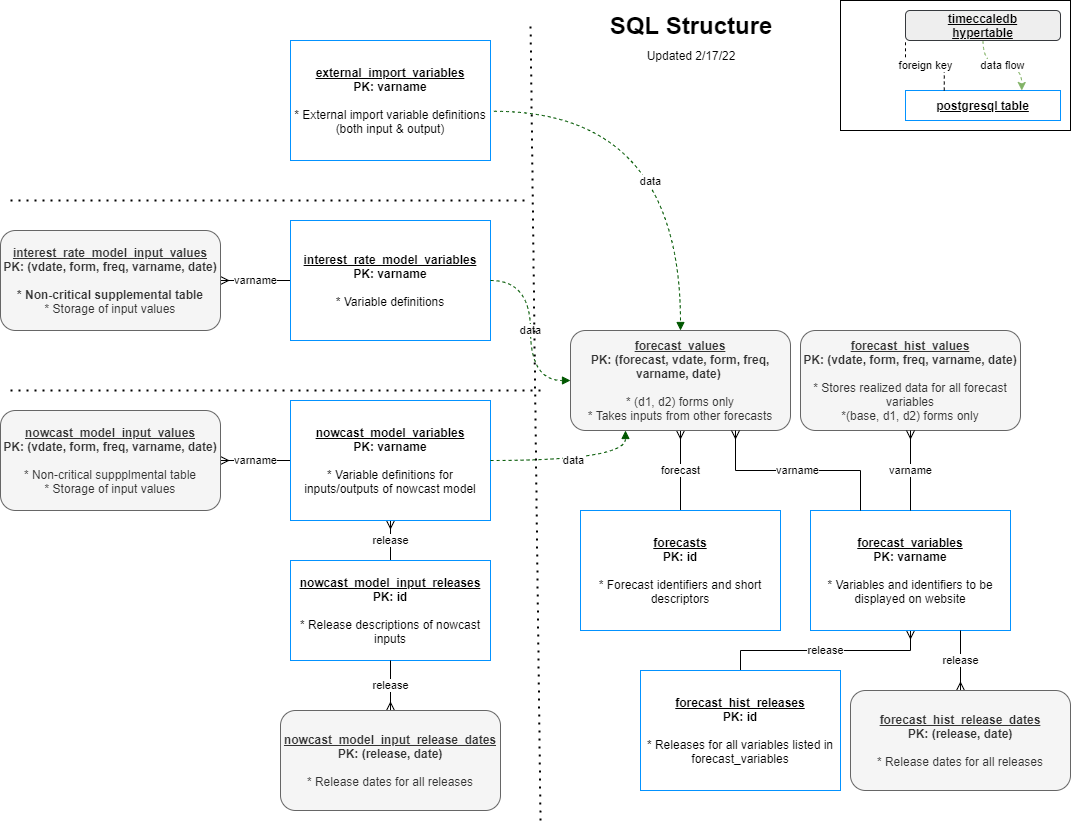
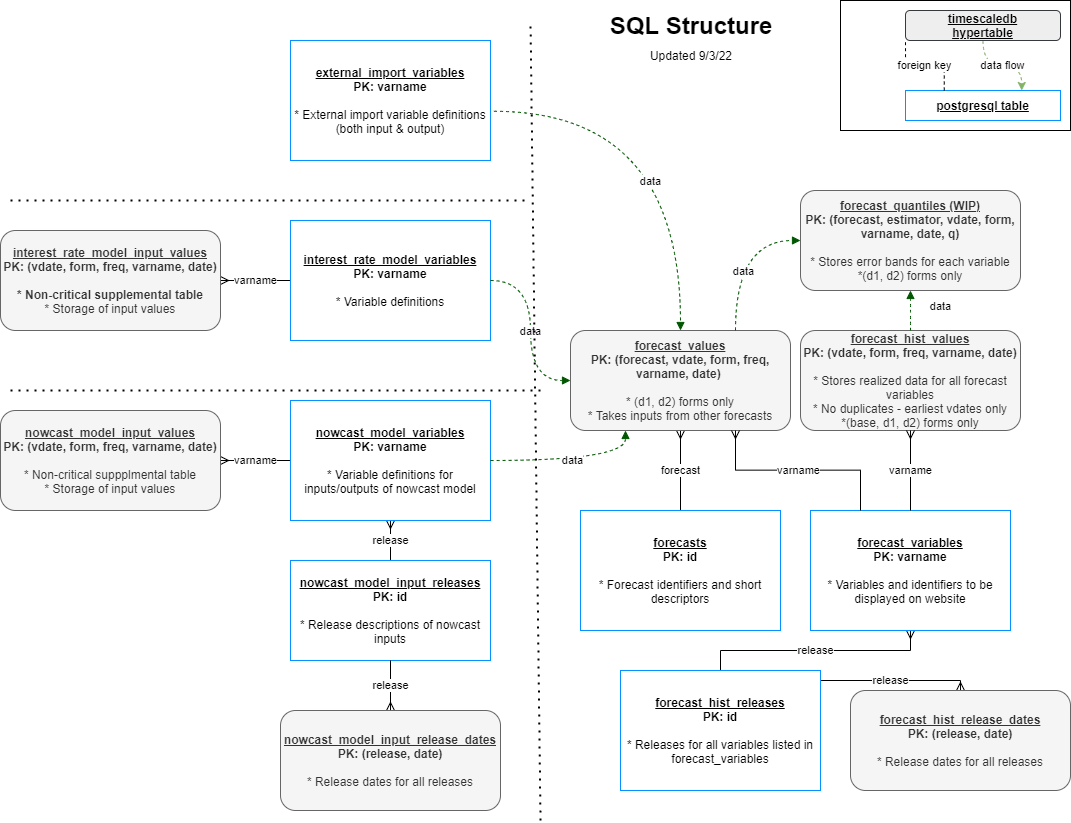
Updated README (v1.04)

diff --git a/README.md b/README.md
@@ -4,21 +4,15 @@ This project contains the code for data scraping, data cleaning, and modeling us
 # RUN
 This code is developed locally on a Windows machine and deployed locally to an Ubuntu VPS. The modeling code is primarily run in R (>=4.1.2) but some scraping scripts make calls to Python (=3.8.7). Modules are imported wholesale using the `reticulate` package. Data and model features are stored in a Postgres/TimescaleDB server hosted on the VPS.
 
----
+# DB Structure 
+![PostgreSQL SQL Structure](https://raw.githubusercontent.com/cmefi/econforecasting-r/master/docs/sql-structure.png?raw=true)
+
+
 # CHANGELOG
 
-```mermaid
-gantt
-    title Recent Changes
-    dateFormat  M/D/Y
-    axisFormat  %m/%d
-    section 16. Sentiment Indices Release (v1.01)
-      Sentiment Model Exploration      :3/3/22, 4/24/22
-      Sentiment Model Scraping - FT, Reuters, Reddit/PushShift      :4/3/22, 5/8/22
-      Sentiment Model DB Setup      :5/1/22, 5/8/22
-      Sentiment Model Web Page Setup      :5/8/22, 5/15/22
-      Sentiment Model Release       :5/15/22, 5/15/22
-```
+
+
+
 ## [v1.04] 
 - Fixed bug related to einf forecasts missing latest vintage
 
@@ -256,4 +250,18 @@ This is a full model rewrite. The rewrite for the full-scale model is delayed, b
 
 ## [v0.00] (2021-01-07)
 - Added initial package setup
-- Added initial web scraping frameworks etup
+- Added initial web scraping framework setup
+
+
+```mermaid
+gantt
+    title Recent Changes
+    dateFormat  M/D/Y
+    axisFormat  %m/%d
+    section 16. Sentiment Indices Release (v1.01)
+      Sentiment Model Exploration      :3/3/22, 4/24/22
+      Sentiment Model Scraping - FT, Reuters, Reddit/PushShift      :4/3/22, 5/8/22
+      Sentiment Model DB Setup      :5/1/22, 5/8/22
+      Sentiment Model Web Page Setup      :5/8/22, 5/15/22
+      Sentiment Model Release       :5/15/22, 5/15/22
+```
